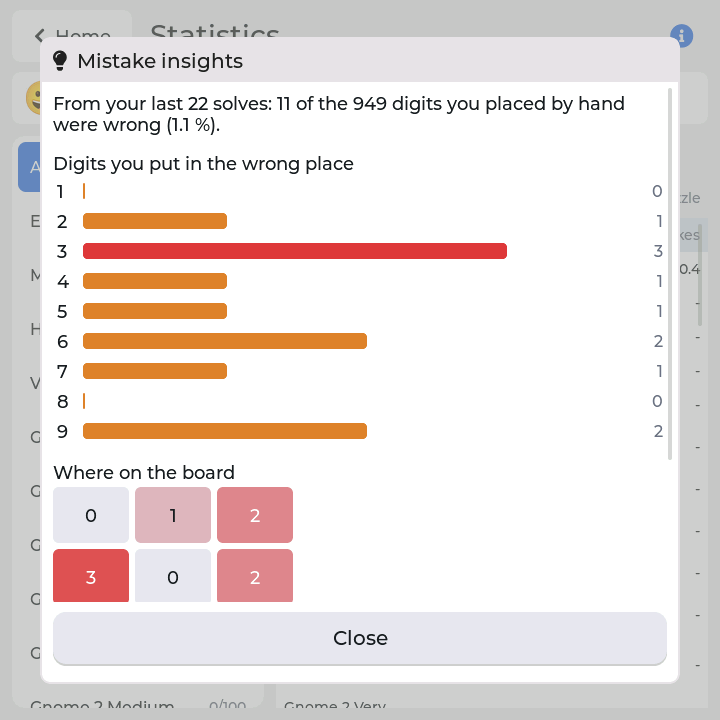
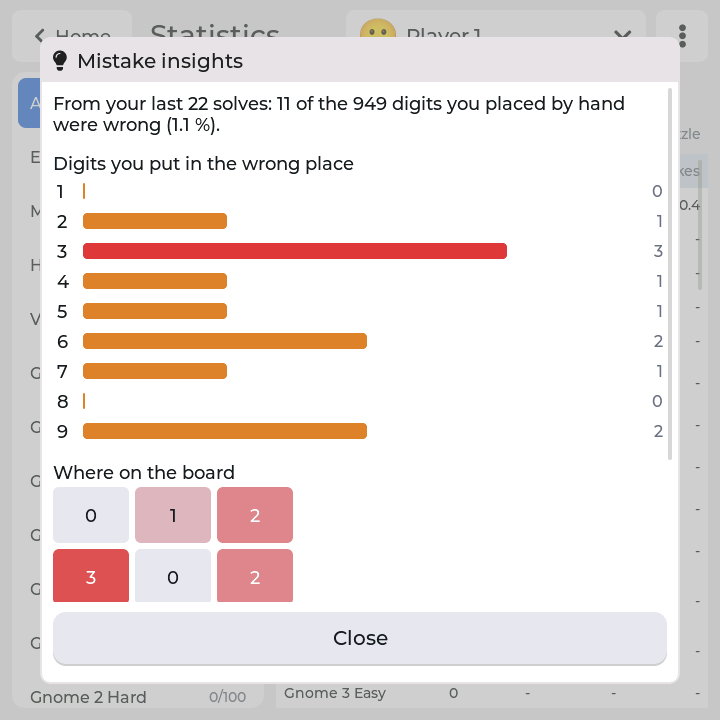
refactor statistics page

diff --git a/src/ui_stats.c b/src/ui_stats.c
@@ -45,7 +45,7 @@ static lv_obj_t *x_player_dd;             /**< whose statistics */
 static lv_obj_t *x_chart;                 /**< the progress chart's card (instead of the table) */
 static lv_obj_t *x_plot;                  /**< its plot */
 static lv_obj_t *x_trend;                 /**< the text under it */
-static lv_obj_t *x_chart_btn;             /**< Chart / Table */
+static lv_obj_t *x_menu_btn;              /**< the ⋮ menu: Insights, Chart / Table, About */
 static bool      x_chart_mode;            /**< the chart is shown (kept until power-off) */
 static char      x_player_txt[STORE_NAME_LEN + 8];    /**< the closed dropdown: icon + name */
 static lv_obj_t *x_player_av;                         /**< ... or the avatar left of the name */
@@ -481,9 +481,7 @@ static void plot_draw_cb(lv_event_t *e)
  */
 static void chart_render(const stats_view_t *v, bool from_db)
 {
-    lv_obj_set_hidden(x_chart, !x_chart_mode);
-    lv_label_set_text(lv_obj_get_child(x_chart_btn, 0), x_chart_mode ? LV_SYMBOL_LIST "  Table"
-                      : SYMBOL_CHART "  Chart");
+    lv_obj_set_hidden(x_chart, !x_chart_mode);      /* (the ⋮ menu's item says Chart or Table: stats_menu_cb()) */
     if (!x_chart_mode) {
         return;
     }
@@ -522,7 +520,7 @@ static void chart_render(const stats_view_t *v, bool from_db)
 }
 
 /**
- * @brief Chart / Table: the other one.
+ * @brief The ⋮ menu's Chart / Table: the other one shown.
  * @param[in] e  the event
  */
 static void chart_btn_cb(lv_event_t *e)
@@ -532,7 +530,7 @@ static void chart_btn_cb(lv_event_t *e)
 }
 
 /**
- * @brief The (i) button: what the numbers mean, and where they come from.
+ * @brief The ⋮ menu's About these statistics: what the numbers mean, and where they come from.
  * @param[in] e  the event
  */
 static void stats_info_cb(lv_event_t *e)
@@ -545,7 +543,7 @@ static void stats_info_cb(lv_event_t *e)
              "solved. \"-\" means mistakes weren't counted yet when it was solved.\n\n"
              "Per level: puzzles solved, the fastest and the average of the best times, and the "
              "average of the fewest mistakes.",
-             is_statistics_from_db() ? "These are the statistics of the player chosen at the top right, from sudoku.db "
+             is_statistics_from_db() ? "These are the statistics of the player chosen at the top, from sudoku.db "
              "on the microSD card."
              : "No sudoku.db: insert a FAT32 microSD card before switching on to keep statistics. "
              "This shows what the board has in memory.");
@@ -600,7 +598,22 @@ static void stats_table_draw_cb(lv_event_t *e)
     }
 }
 
-/** @brief Builds the screen: Home, the title, (i), the list, the player dropdown, Insights, Chart, the summary, the table and the chart. */
+/**
+ * @brief The ⋮ menu (top right): Insights (mistakes, from the move logs), Chart or Table (the one not shown), About
+ *        statistics.
+ * @param[in] e  the event
+ */
+static void stats_menu_cb(lv_event_t *e)
+{
+    const ctx_item_t items[] = {
+        {SYMBOL_BULB, "Insights", insights_cb, false, false},
+        {x_chart_mode ? LV_SYMBOL_LIST : SYMBOL_CHART, x_chart_mode ? "Table" : "Chart", chart_btn_cb, false, false},
+        {SYMBOL_INFO, "About statistics", stats_info_cb, false, false},
+    };
+    ctx_menu_toggle(x_menu_btn, items, (int)(sizeof(items) / sizeof(items[0])));
+}
+
+/** @brief Builds the screen: Home, the title, the ⋮ menu, the list, the player dropdown, Insights, Chart, the summary, the table and the chart. */
 void build_stats(void)
 {
     screen_set_stats(make_screen());
@@ -609,11 +622,8 @@ void build_stats(void)
     lv_obj_t *t = make_label(screen_stats(), &lv_font_montserrat_28, C_TEXT);
     lv_label_set_text(t, "Statistics");
     lv_obj_set_pos(t, 150, 20);
-    lv_obj_t *info = make_btn(screen_stats(), SCR_W - 12 - 52, 10, 52, 52, SYMBOL_INFO, &font_icons_24, stats_info_cb,
-                              NULL);                 /* top right, on the title's line */
-    lv_obj_set_style_bg_opa(info, LV_OPA_TRANSP, 0);
-    lv_obj_set_style_bg_opa(info, LV_OPA_COVER, LV_STATE_PRESSED);
-    lv_obj_set_style_text_color(lv_obj_get_child(info, 0), C_ACCENT, 0);
+    x_menu_btn = make_btn(screen_stats(), SCR_W - 12 - 52, 10, 52, 52, SYMBOL_MORE, &font_icons_24, stats_menu_cb,
+                          NULL);                     /* top right, on the title's line (as the Puzzles screen's) */
 
     lv_obj_t *list = make_coll_column(screen_stats());
     lv_obj_set_pos(list, 12, X_BODY_Y);
@@ -629,11 +639,11 @@ void build_stats(void)
     }
 
     int px = PANE_X, pw = PANE_W;
-    /* top bar, right: whose statistics, as a dropdown */
+    /* the title row, right: whose statistics, as a dropdown, left of the ⋮ menu */
     x_player_dd = lv_dropdown_create(screen_stats());
     x_player_av = NULL;                                /* (a rebuild: the old one went with the old screen) */
-    lv_obj_set_pos(x_player_dd, 12, X_ROW_Y);          /* whose statistics: first in the row */
-    lv_obj_set_size(x_player_dd, 320, 52);
+    lv_obj_set_pos(x_player_dd, SCR_W - 12 - 52 - 10 - X_DD_W, 10);   /* whose statistics: next to the ⋮ menu */
+    lv_obj_set_size(x_player_dd, X_DD_W, 52);
     lv_obj_set_style_text_font(x_player_dd, &font_icons_20, 0);
     lv_obj_set_style_text_color(x_player_dd, C_TEXT, 0);
     lv_obj_set_style_bg_color(x_player_dd, C_CARD, 0);
@@ -687,13 +697,7 @@ void build_stats(void)
     lv_label_set_text(x_empty, "No puzzles solved in this level yet.");
     lv_obj_set_pos(x_empty, px + 4, X_BODY_Y + 104);
 
-    /* Chart / Table switch (top right of the pane) and the chart card in the table's place */
-    lv_obj_t *ib = make_btn(screen_stats(), SCR_W - 12 - 160 - 10 - 170, X_ROW_Y, 170, 52, SYMBOL_BULB "  Insights",
-                            &font_icons_20, insights_cb, NULL);   /* mistake insights, from the move logs */
-    lv_obj_set_style_text_color(lv_obj_get_child(ib, 0), C_ACCENT, 0);
-    x_chart_btn = make_btn(screen_stats(), SCR_W - 12 - 160, X_ROW_Y, 160, 52, SYMBOL_CHART "  Chart", &font_icons_20,
-                           chart_btn_cb, NULL);
-    lv_obj_set_style_text_color(lv_obj_get_child(x_chart_btn, 0), C_ACCENT, 0);
+    /* the chart card, in the table's place (the ⋮ menu's Chart / Table switches) */
     x_chart = lv_obj_create(screen_stats());
     lv_obj_set_pos(x_chart, px, X_BODY_Y + 82);
     lv_obj_set_size(x_chart, pw, SCR_W - X_BODY_Y - 82 - 12);

diff --git a/src/ui_internal.h b/src/ui_internal.h
@@ -390,9 +390,9 @@ typedef stats_level_t level_stat_t;
  * of the groups' first emoji above it jumps to them. */
 enum { AV_CELL = 56, AV_COLS = 8 };
 
-/* the Statistics screen, top down: title and (i); player, Chart; levels | table */
-#define X_ROW_Y   72                                /**< the row under the title */
-#define X_BODY_Y  (X_ROW_Y + 52 + 12)               /**< the level column and the pane */
+/* the Statistics screen, top down: Home, the title, the player and the ⋮ menu; levels | table */
+#define X_DD_W    300                               /**< the player list's width, left of the ⋮ menu in the title row */
+#define X_BODY_Y  72                                /**< the level column and the pane, under the title row */
 
 /* one settings row: a card with a title + hint on the left; returns the card
  * so the caller can put a control on its right */

diff --git a/docs/features-progress.md b/docs/features-progress.md
@@ -20,15 +20,16 @@ Who plays, and how they are doing: players, colours and avatars, statistics, the
 - **Player colours**: each player has a colour, shown as a dot by their name on the **Players** screen and the Daily and Weekly leaderboards. Tap the dot on the Players screen for the next of eight colours (`players.color`; new players get one by turn).
 - **Avatars**: **Players → ⋮ → Avatar** picks an emoji for the player who is playing, from all of Noto Color Emoji (1867 of them, without the skin-tone variants), in a grid that scrolls; the row of nine emoji at its top jumps to a group (smileys, people, animals, food, travel, activities, objects, symbols, flags), the current one is outlined, and **None** takes it off. It shows wherever the player does: the Players screen (on a circle of the player's colour, instead of the dot), Home's **Players** button, the Statistics player dropdown, the Daily and Weekly leaderboards, the Time attack leaderboard, History's day list, **Gameplays**, the Replay screen (and so in exported MP4s) and the Solved dialog's head-to-head line (the leader's). Without an avatar, the player's colour dot shows in its place. Kept in `sudoku.db` (`players.avatar`); the emoji are 36 px images in flash (about 7 MB, `src/avatars.c`).
 - **Statistics**
+  - The player list in the title row, next to the ⋮ menu, picks whose statistics are shown (picking a player also makes them the one playing, as on **Players**).
   - A mistake is a placed digit that breaks a row, column or box rule: the ones that buzz and turn red. With Mistake check on **Solution**, a digit that isn't the solution's is a mistake too; with it **Off**, rule-breaking digits are still counted, just not shown. Undo doesn't take a mistake back. The count is saved with the game in progress and shown in the "Solved!" dialog.
   - **All levels** compares the 16 levels and the puzzles made on the board: puzzles solved, fastest and average best time, and average mistakes.
   - Each level lists its solved puzzles with the best time, the fewest mistakes in any solve, and how many times it was solved.
   - Below the 16 collections (the column scrolls), forty-three more rows cover the puzzles made on the board: **New puzzles** (Classic from New puzzle), **Daily puzzle**, **X-Sudoku**, **Hyper**, **Jigsaw**, **Killer**, **Anti-Knight**, **Even-Odd**, **Consecutive**, **Thermo**, **Sandwich**, **Mini 6x6**, **Kids 4x4**, **Anti-King**, **Non-Consecutive**, **Disjoint Groups**, **Asterisk**, **Kropki**, **XV**, **Greater-Than**, **Quadruple**, **Arrow**, **Renban**, **German Whispers**, **Skyscraper**, **Little Killer**, **Palindrome**, **Region Sum Lines**, **X-Sums**, **Zipper Lines**, **Frame**, **Between Lines**, **Entropic Lines**, **Modular Lines**, **Center Dot**, **Outside Sudoku**, **Rossini**, **Diagonal Non-Consecutive**, **Dutch Whispers**, **Parity Lines**, **Slow Thermo**, **Fortress** and **Argyle**, each with its count of puzzles solved. Their page has one row per level (Easy, Medium, Hard, Expert) with the same columns as All levels, and **Chart** shows their newest solves. They need `sudoku.db`.
   - Above the table: solved count, puzzles solved without a mistake, total solves, fastest and average time.
   - Puzzles solved before this version show "-" for mistakes and count as solved once.
-  - The info button next to the "Statistics" title explains what the numbers mean and where they come from.
-- **Progress chart**: **Chart** (top right of the Statistics screen) swaps the table for a chart of your newest 40 solves at the selected level (**All levels**: any puzzle, generated ones included), oldest on the left. Each solve is a dot; the orange line is the average of the last 5; minutes run up the side. Under it: your fastest time, and with 10 or more solves, how the newest 5 compare with the first 5 shown ("36% faster"). **Table** switches back. It needs `sudoku.db`.
-- **Mistake insights**: **Insights** on the Statistics screen looks through the move logs of your last 300 solves (9×9) and shows how many of the digits you placed by hand were wrong, which digits you misplace most (a bar each), where on the board (the nine boxes, the more mistakes the redder) and your most common mix-ups ("A 3 where a 9 belongs: 4 times"). A solved game's last board is its solution, so nothing has to be solved again.
+  - **⋮ → About statistics** explains what the numbers mean and where they come from.
+- **Progress chart**: **⋮ → Chart** on the Statistics screen (the ⋮ button at the top right: **Insights**, **Chart**, **About statistics**; Chart reads **Table** while the chart is shown) swaps the table for a chart of your newest 40 solves at the selected level (**All levels**: any puzzle, generated ones included), oldest on the left. Each solve is a dot; the orange line is the average of the last 5; minutes run up the side. Under it: your fastest time, and with 10 or more solves, how the newest 5 compare with the first 5 shown ("36% faster"). **Table** switches back. It needs `sudoku.db`.
+- **Mistake insights**: **⋮ → Insights** on the Statistics screen looks through the move logs of your last 300 solves (9×9) and shows how many of the digits you placed by hand were wrong, which digits you misplace most (a bar each), where on the board (the nine boxes, the more mistakes the redder) and your most common mix-ups ("A 3 where a 9 belongs: 4 times"). A solved game's last board is its solution, so nothing has to be solved again.
 - **This week**: the home screen's "puzzles solved" line also says how many you solved this week (Monday to Sunday) and your best time; tap it to compare with last week: solved, fastest, average time, mistakes per puzzle and hints, with a line on how you did ("0.5 fewer mistakes per puzzle, and 1:20 faster on average than last week"). It needs the clock (Wi-Fi).
 - **History**: **History** on the home screen shows a calendar (‹ › change the month). Days on which anyone finished a puzzle or started one that is still in progress are highlighted. A small orange badge on each highlighted day shows how many games that was (puzzles solved plus games in progress started that day). Tap a day for who played what: player, level and puzzle number, time taken, mistakes, hints, and when it was started and solved (or "in progress"). Dates are local, in the time zone from Settings, and come from `sudoku.db`; solves from before the clock was set (Wi-Fi/NTP) have no date and don't appear.
 - **Trophies**: **Trophies** on the home screen (the line under it counts your achievements) has four tabs. **Daily** and **Weekly** need today's date: like Home's **Daily puzzle** button, they are greyed out until Wi-Fi is connected and the clock is set, and the page opens on **Achievements** meanwhile.

diff --git a/docs/how-to-play.md b/docs/how-to-play.md
@@ -19,7 +19,7 @@
 | Pause                           | Tap the timer; tap the board to resume           |
 | Back to the list                | **List** (top left); the game is saved           |
 | Back to the home screen         | **Home** (top left of the list, statistics, players or settings) |
-| Solve times as a chart          | **Statistics → Chart** (top right); pick a level on the left |
+| Solve times as a chart          | **Statistics → ⋮ → Chart**; pick a level on the left |
 | Achievements, daily leaderboard | **Trophies** on the home screen                  |
 | Make a new puzzle               | **Puzzles → ⋮ → New puzzle**, pick a variant, then a level |
 | Paint a cell / Killer cage sums | Press and hold the cell                          |
@@ -42,7 +42,7 @@
 | See the game screen tour again  | **Settings → Game → Game screen tour → Show again** |
 | Number pad on the left          | **Settings → Game → Left-handed**                |
 | Save a screenshot               | The picture button in the Solved dialog or on Replay |
-| See where your mistakes are     | **Statistics → Insights**                        |
+| See where your mistakes are     | **Statistics → ⋮ → Insights**                    |
 | Undo a delete on the card       | **Files → Recycle bin**, then the restore button |
 | Play without notes             | **Settings → Game → No-notes challenge**, then a new puzzle |
 | Share today's daily result       | Solve the daily puzzle, then the QR button in the Solved dialog |
